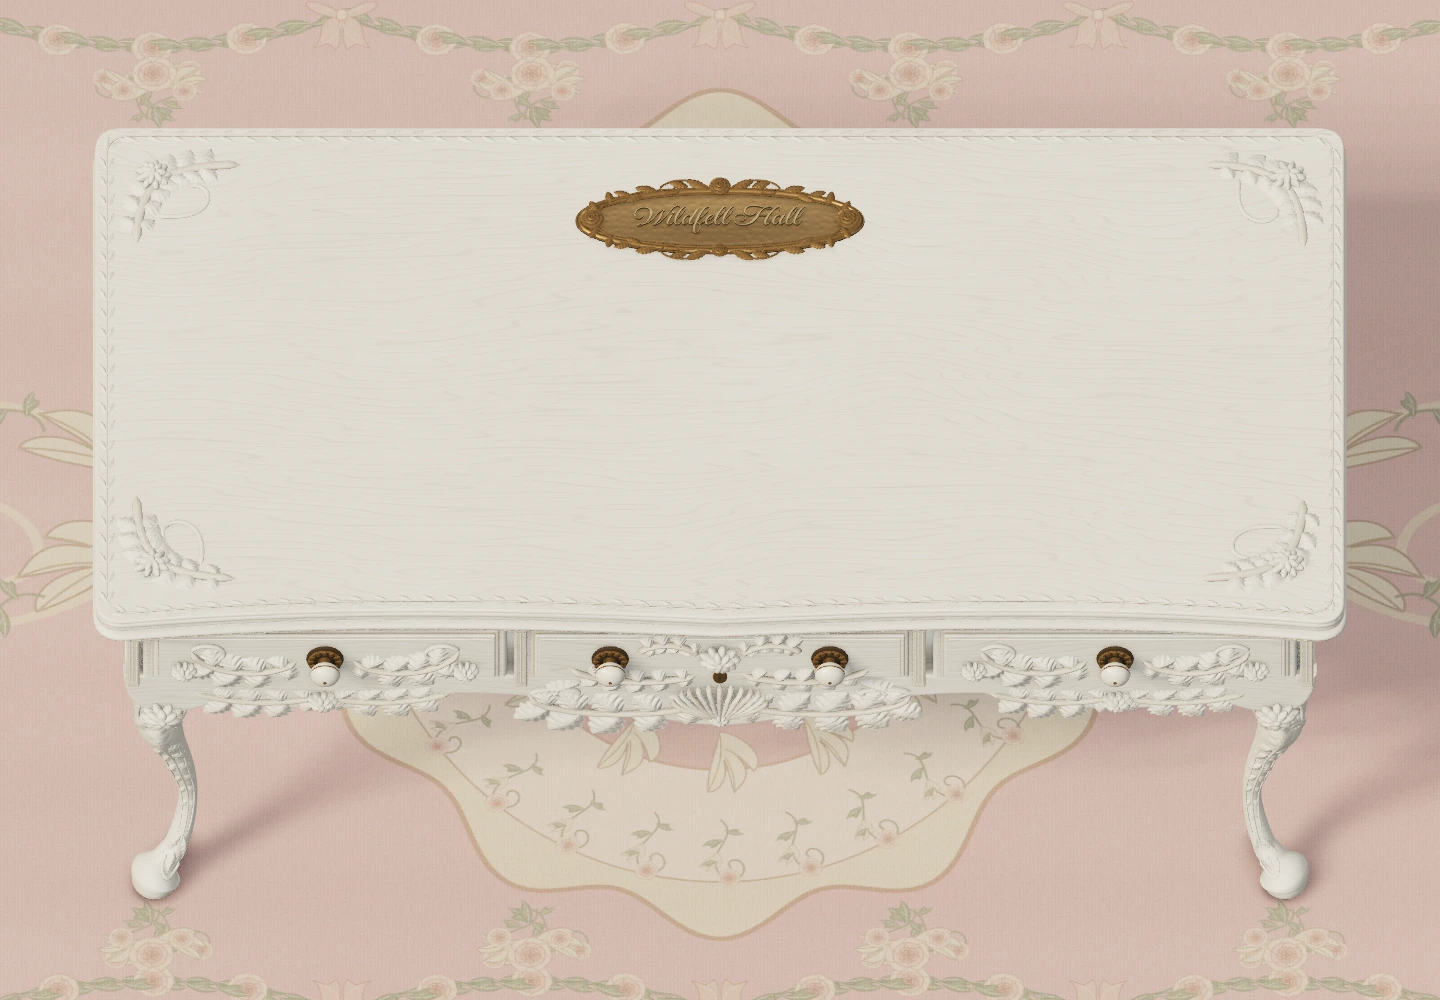
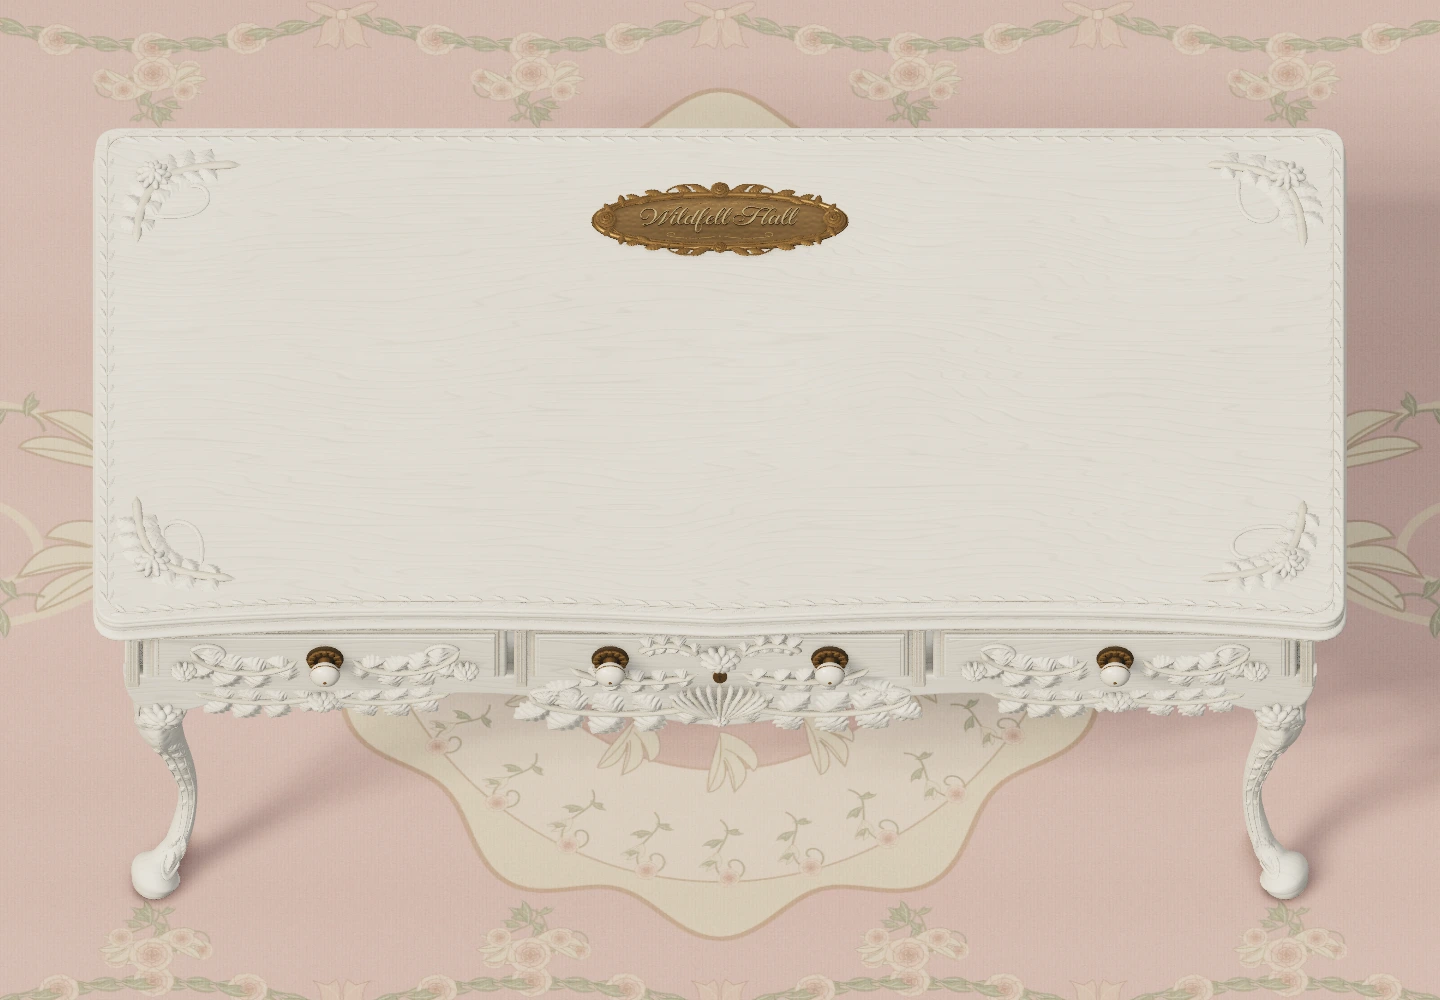
Reduce crest size and frame the gold script with fine scrollwork

Changed region(s): [[0.4062, 0.155, 0.5938, 0.279]]

diff --git a/src/name-crest.js b/src/name-crest.js
@@ -67,7 +67,7 @@ function brushedBronze() {
     const wear = 1 - edge * .075 + grain * .009;
     const r = 188 + edge * 20 + brushing * 7 + grain * 16;
     const i = (y * w + x) * 4;
-    colour.set([142 * wear, 116 * wear, 76 * wear, 255], i);
+    colour.set([128 * wear, 102 * wear, 65 * wear, 255], i);
     roughness.set([r, r, r, 255], i);
     normal.set([128 + grain * 2, 128 + brushing * 3 + grain * 2, 255, 255], i);
   }
@@ -175,6 +175,38 @@ function workedMetal() {
   return texture;
 }
 
+function inscriptionFlourishes() {
+  const pieces = [];
+  // Low chased gold scrolls bracket the words, leaving the capitals and
+  // descenders clear. Each hairline tapers into the bronze at both ends.
+  const points = [[.055, .376], [.32, .417], [.65, .421], [.90, .39],
+    [1.01, .35], [.995, .31], [.94, .29], [.87, .31], [.86, .35], [.89, .37], [.92, .355]];
+  for (const sx of [-1, 1]) for (const sy of [-1, 1]) {
+    const curve = new THREE.CatmullRomCurve3(points.map(([x, y]) => new THREE.Vector3(x * sx, y * sy, 0)));
+    const geometry = new THREE.TubeGeometry(curve, 80, .009, 10, false);
+    const p = geometry.attributes.position;
+    for (let row = 0; row <= 80; row++) {
+      const t = row / 80, center = curve.getPointAt(t);
+      const taper = .12 + .88 * THREE.MathUtils.smoothstep(t, 0, .08) * THREE.MathUtils.smoothstep(1 - t, 0, .12);
+      for (let col = 0; col <= 10; col++) {
+        const i = row * 11 + col;
+        const x = center.x + (p.getX(i) - center.x) * taper;
+        const y = center.y + (p.getY(i) - center.y) * taper;
+        p.setXYZ(i, x, y, crestFieldHeight(x, y) + p.getZ(i) * .55 * taper + .001 - .003 * (1 - taper));
+      }
+    }
+    geometry.computeVertexNormals(); pieces.push(geometry);
+  }
+  for (const sy of [-1, 1]) {
+    const pearl = new THREE.SphereGeometry(1, 16, 10);
+    pearl.scale(.014, .022, .006); pearl.translate(0, sy * .379, crestFieldHeight(0, sy * .379) + .002);
+    pieces.push(pearl);
+  }
+  const geometry = mergeGeometries(pieces);
+  pieces.forEach(piece => piece.dispose());
+  return geometry;
+}
+
 export function createNameCrestMetalwork(brass) {
   const group = new THREE.Group(); group.name = 'oval-floral-name-crest';
   // Cast bronze with a worked ground and burnished relief, all lit by the room.
@@ -194,6 +226,8 @@ export function createNameCrestMetalwork(brass) {
     bevelThickness: .010, bevelSegments: 5, curveSegments: 120 }), cast, 'solid-oval-plaque');
   mesh(crownedField(), satin, 'worked-metal-field');
   mesh(ovalMolding(2.35, .61), burnished, 'continuous-oval-molding');
+  const chased = brass.clone(); chased.color.set('#c7a365'); chased.roughness = .38;
+  mesh(inscriptionFlourishes(), chased, 'fine-scrolls-around-the-inscription');
 
   const foliage = [], flowers = [];
   function add(geometry, x = 0, y = 0, z = .064, angle = 0, batch = foliage) {

diff --git a/src/ornaments.js b/src/ornaments.js
@@ -12,7 +12,8 @@ export async function createEmbossing(surfaceY, brass, renderer) {
   });
   geometry.computeBoundingBox();
   const box = geometry.boundingBox, center = box.getCenter(new THREE.Vector3());
-  const scale = 2.90 / (box.max.x - box.min.x);
+  // Keep the inscription generous within the slightly smaller casting.
+  const scale = 3.04 / (box.max.x - box.min.x);
   geometry.translate(-center.x, -center.y, 0);
   geometry.scale(scale, -scale, .038 / 4);
   reverseWinding(geometry); geometry.computeVertexNormals();
@@ -29,8 +30,8 @@ export async function createEmbossing(surfaceY, brass, renderer) {
     normal.set(normal.x - gradient.x * normal.z, normal.y - gradient.y * normal.z, normal.z).normalize();
     normals.setXYZ(i, normal.x, normal.y, normal.z);
   }
-  const face = brass.clone(); face.color.set('#f2dba6'); face.metalness = .84; face.roughness = .31;
-  const bevel = brass.clone(); bevel.color.set('#b58d4d'); bevel.roughness = .34;
+  const face = brass.clone(); face.color.set('#ffe6ac'); face.metalness = .82; face.roughness = .30;
+  const bevel = brass.clone(); bevel.color.set('#9e783f'); bevel.roughness = .34;
   const lettering = new THREE.Mesh(geometry, [face, bevel]);
   lettering.position.z = .001;
   lettering.name = 'burnished-gold-script-with-beveled-edges';
@@ -42,7 +43,7 @@ export async function createEmbossing(surfaceY, brass, renderer) {
     field.aoMap = crestContactTexture(renderer, crest); field.aoMapIntensity = .95;
   }
   crest.rotation.x = -Math.PI / 2;
-  crest.scale.set(.72, .72, .62);
+  crest.scale.set(.64, .64, .56);
   // Bed the plaque's back bevel into the timber. The inscription and flowers
   // belong to the same physical object and receive the room's actual light.
   crest.position.set(0, surfaceY + .004, -2.35);

diff --git a/index.html b/index.html
@@ -13,9 +13,9 @@
     <main id="room" aria-label="An antique white wooden writing desk">
       <div id="desk-fallback" aria-hidden="true">
         <picture>
-          <source media="(min-aspect-ratio: 3/2)" srcset="./materials/desk-still-wide.webp?v=crest-4" />
-          <source media="(max-aspect-ratio: 3/4)" srcset="./materials/desk-still-portrait.webp?v=crest-4" />
-          <img src="./materials/desk-still.webp?v=crest-4" alt="" fetchpriority="high" />
+          <source media="(min-aspect-ratio: 3/2)" srcset="./materials/desk-still-wide.webp?v=crest-5" />
+          <source media="(max-aspect-ratio: 3/4)" srcset="./materials/desk-still-portrait.webp?v=crest-5" />
+          <img src="./materials/desk-still.webp?v=crest-5" alt="" fetchpriority="high" />
         </picture>
       </div>
       <h1 class="sr-only">Wildfell Hall</h1>
